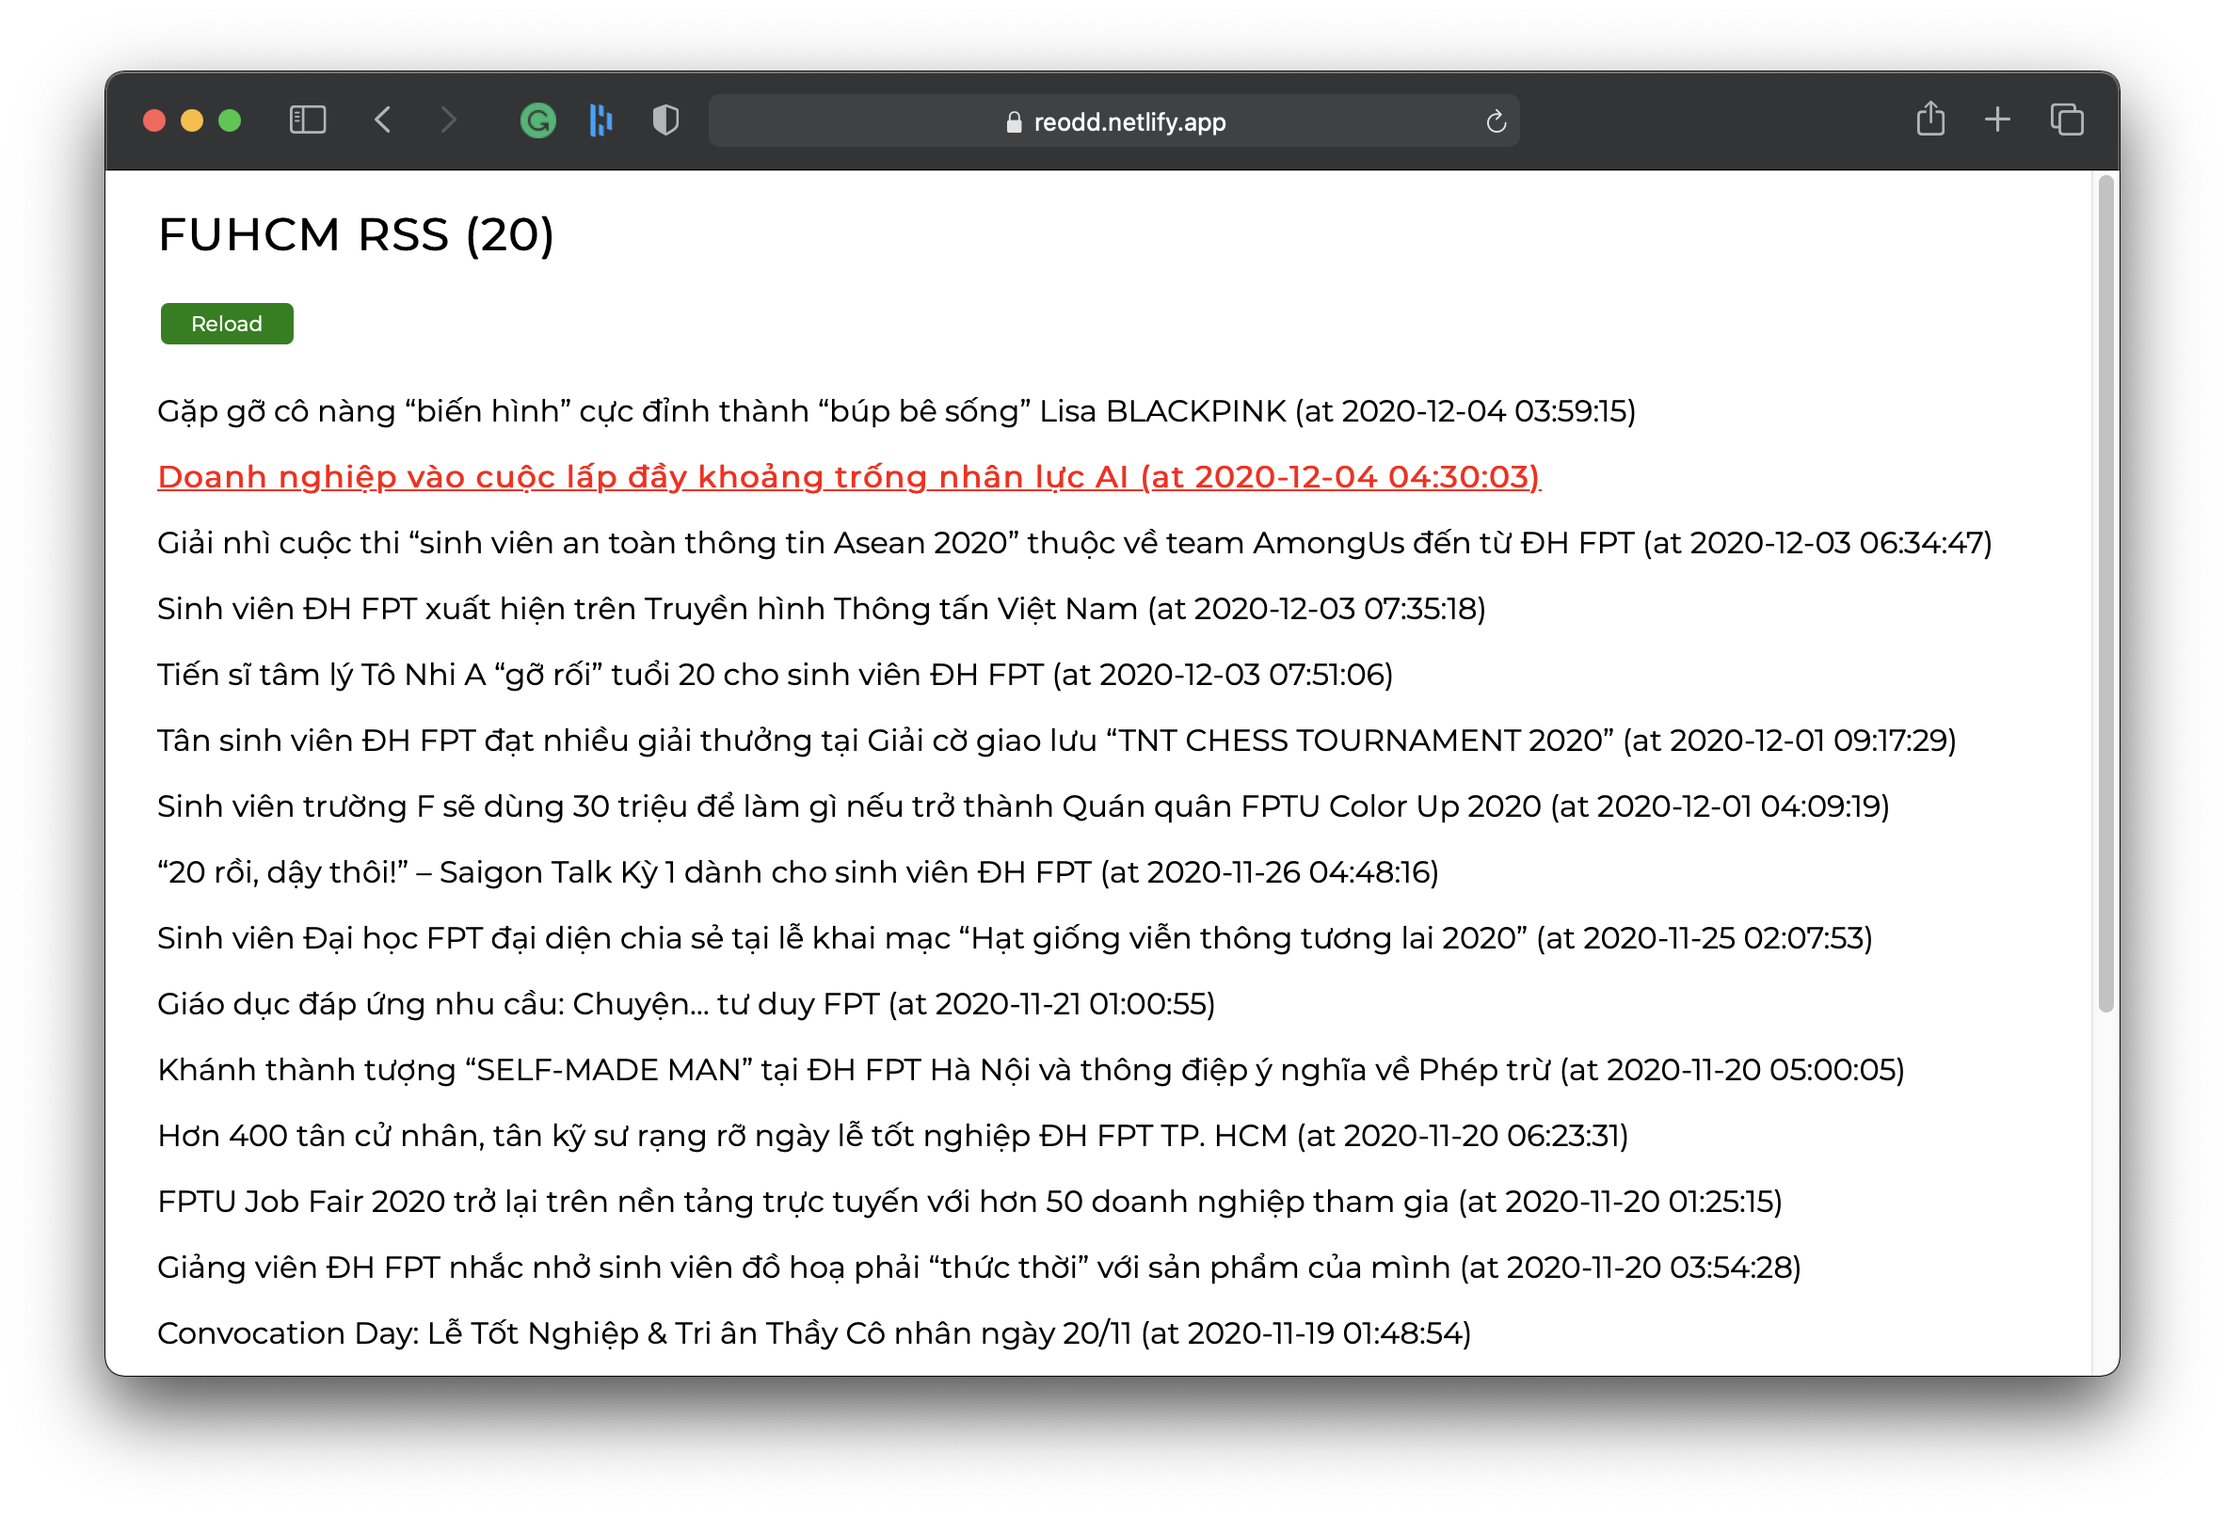
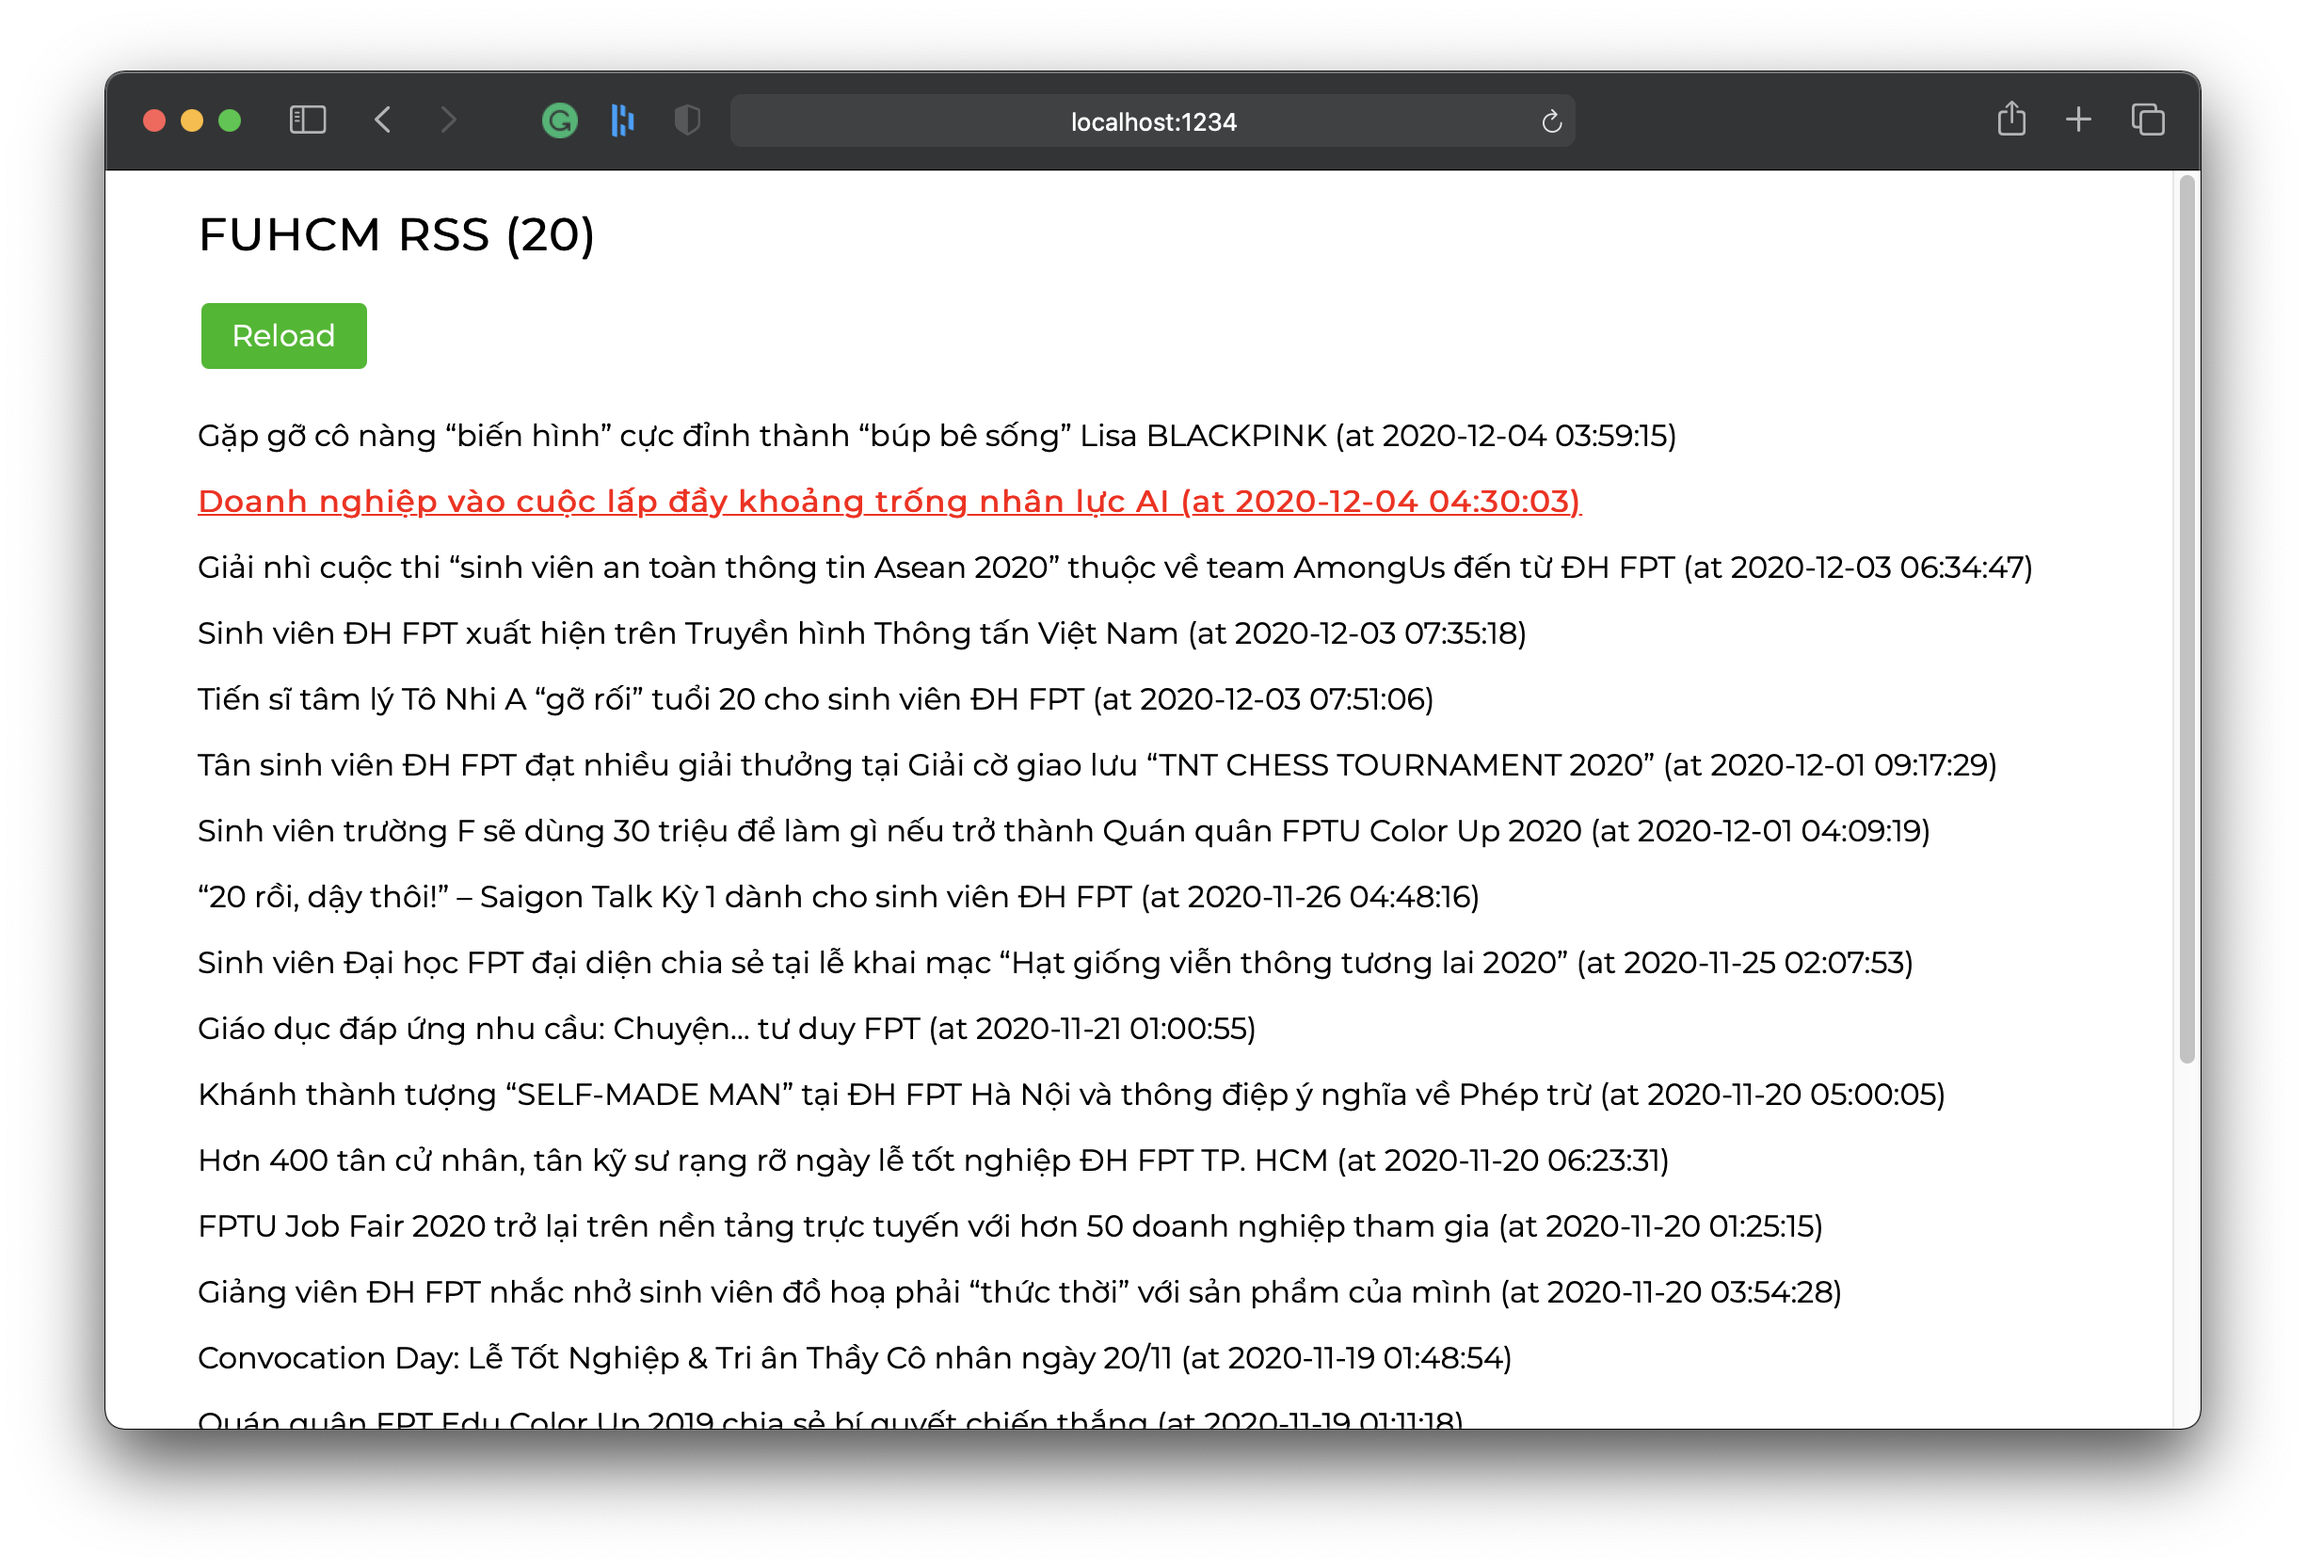
update demo:

Changed region(s): [[0.0309, 0.0311, 0.9573, 0.9317]]

diff --git a/example/components/Index.js b/example/components/Index.js
@@ -1,5 +1,8 @@
 import { OddxReactive as ReOdd } from '@oddx/reactive'
 import { getAllArticles } from '../services/fuhcm'
+import sleep from '../utils/sleep'
+
+import Loading from './Loading'
 
 const state = ReOdd.useState({
   limit: 20,
@@ -9,6 +12,7 @@ const state = ReOdd.useState({
 
 async function loadData() {
   state.isLoading = true
+  await sleep(1000)
   state.data = await getAllArticles(state.limit)
   state.isLoading = false
   document.title = 'ReOdd Demo Homepage'
@@ -19,6 +23,20 @@ async function loadMore() {
   await loadData()
 }
 
+function List(data) {
+  const listRender = data.map(i => {
+    const id = i.guid.replace('https://daihoc.fpt.edu.vn/?p=', '')
+    return `
+        <a href="#/posts/${id}"><li>${i.title} (at ${i.pubDate})</li></a>
+    `
+  }).join('')
+  return `
+    <ul>
+    ${listRender}
+    </ul>
+  `
+}
+
 function Index() {
   ReOdd.useEffect(loadData)
   ReOdd.useEffect(() => {
@@ -26,21 +44,13 @@ function Index() {
     ReOdd.on('load-more').click(loadMore)
   })
 
-  const list = state.data.map(i => {
-    const id = i.guid.replace('https://daihoc.fpt.edu.vn/?p=', '')
-    return `
-        <a href="#/posts/${id}"><li>${i.title} (at ${i.pubDate})</li></a>
-    `
-  }).join('')
-
   return `
+    ${Loading(state.isLoading)}
     <h2>FUHCM RSS (${state.limit})</h2>
     <button id="reload">Reload</button> ${(state.isLoading) ? "Loading..." : ""}
-    <ul>
-        ${list}
-    </ul>
+    ${List(state.data)}
     <div>
-        <button id="load-more" ${state.isLoading ? 'hidden' : ''}>Load more...</button> ${(state.isLoading) ? "Loading..." : ""}
+      <button id="load-more">Load more...</button> ${(state.isLoading) ? "Loading..." : ""}
     </div>
   `
 }

diff --git a/example/components/Post.js b/example/components/Post.js
@@ -1,5 +1,8 @@
 import { OddxReactive as ReOdd } from '@oddx/reactive'
 import { getArticle } from '../services/fuhcm'
+import sleep from '../utils/sleep'
+
+import Loading from './Loading'
 
 const state = ReOdd.useState({
   data: null,
@@ -9,6 +12,7 @@ const state = ReOdd.useState({
 async function loadData() {
   const id = ReOdd.router.param('id')
   state.data = null
+  await sleep(1000)
   state.isLoading = true
   state.data = await getArticle(id)
   state.isLoading = false
@@ -29,6 +33,7 @@ function Post() {
   }
 
   return `
+    ${Loading(true)}
     <a href="#"><button>Back to home</button></a>
     <h2>Loading...</h2>
   `

diff --git a/example/loading.scss b/example/loading.scss
@@ -1,0 +1,30 @@
+@keyframes rotate {
+  from {
+    transform: rotate(360deg) scaleX(-1);
+  }
+
+  to {
+    transform: rotate(0deg) scaleX(-1);
+  }
+}
+
+.loading-overlay {
+  position: fixed;
+  top: 0;
+  right: 0;
+  bottom: 0;
+  left: 0;
+  z-index: 2;
+  display: flex;
+  align-items: center;
+  justify-content: center;
+  background: rgba(0, 0, 0, 0.5);
+
+  &::before {
+    background: url('https://static.line-scdn.net/line_cs_sp/174581ba6de/my-inquiry-spa/assets/loading.png') center / contain no-repeat;
+    content: '';
+    width: 100px;
+    height: 100px;
+    animation: rotate 1s linear infinite;
+  }
+}

diff --git a/example/index.html b/example/index.html
@@ -5,7 +5,8 @@
         <meta charset="utf-8">
         <meta name="viewport" content="width=device-width, initial-scale=1, shrink-to-fit=no, maximum-scale=1, minimum-scale=1, user-scalable=0" />
         <link href='https://fonts.googleapis.com/css?family=Montserrat' rel='stylesheet'>
-        <link href='./index.css' rel='stylesheet'>
+        <link href='./index.scss' rel='stylesheet'>
+        <link href='./loading.scss' rel='stylesheet'>
     </head>
     <body>
         <div id="app" style="max-width: 1000px; margin: auto;"></div>

diff --git a/example/components/Loading.js b/example/components/Loading.js
@@ -1,0 +1,13 @@
+import { OddxReactive as ReOdd } from '@oddx/reactive'
+
+const trackLoad = () => console.log('It gonna load again, hah!')
+
+function Loading(isLoading) {
+  ReOdd.useEffect(trackLoad)
+
+  return isLoading ? `
+    <div class="loading-overlay"></div>
+  ` : ``
+}
+
+export default Loading

diff --git a/example/index.scss b/example/index.scss
@@ -14,9 +14,10 @@ a:hover {
 }
 
 button {
-    background: green;
+    background-color: #03BA00;
     color: white;
-    padding: 0.25rem 1rem;
+    font-size: 1rem;
+    padding: 0.5rem 1rem;
     border: 0;
     border-radius: 0.25rem;
     cursor: pointer;

diff --git a/example/utils/sleep.js b/example/utils/sleep.js
@@ -1,0 +1,3 @@
+const sleep = ms => new Promise(resolve => setTimeout(resolve, ms))
+
+export default sleep

diff --git a/README.md b/README.md
@@ -1,17 +1,15 @@
 # Reactive UI library
 
-Lightweight (~1 KB gzipped runtime) [React](https://github.com/facebook/react)-like API naive Reactive UI library 
-written 
-in TypeScript
+Lightweight (~1 KB gzipped runtime) Reactive UI library written in TypeScript
 
 ## Features
 
 - [React](https://github.com/facebook/react) API like with functional style
-- Two-way binding which uses [Reactive](https://vuejs.org/v2/guide/reactivity.html) instead of React's 
+- Two-way data binding which uses Vue's [Reactive](https://vuejs.org/v2/guide/reactivity.html) instead of React's 
   [Reconciliation](https://reactjs.org/docs/reconciliation.html)
-- No dependency, no JSX, no virtual DOM overhead
+- No dependency, no JSX, no need to transpile, no virtual DOM overhead
 - Tiny size, just 335 Bytes minified and gzipped runtime size
-- Embeddable and perfectly suitable for tiny-size single page applications
+- Embeddable and perfectly suitable for small-and-tiny-sized single page applications
 - TypeScript with static types
 
 ## Install
@@ -41,7 +39,9 @@ reodd.OddxReactive.render('#app', HelloWorld)
 
 ## Usage
 
-Basic Render:
+### Basic Render:
+
+The React-like APIs are easy to understand and work with (especially if you're coming from an React.js background)
 
 ```javascript
 import ReOdd from '@oddx/reactive'
@@ -55,7 +55,9 @@ function HelloWorld() {
 ReOdd.render('#app', HelloWorld)
 ```
 
-Reactive State:
+ReOdd can also be run directly in the browser with no build tool (via UMD import), just take your idea and turn it into reality in no ime!
+
+### Reactive State:
 
 ```javascript
 import ReOdd from '@oddx/reactive'
@@ -76,7 +78,20 @@ function Book() {
 ReOdd.render('#book', Book)
 ```
 
-Event Binding:
+You don't need to manually call `setState` because the state is already reactive!
+
+For example, you can write a load data function like this:
+
+```javascript
+async function loadData() {
+  const data = await getDataFromServer()
+  state.data = data
+}
+```
+
+Also, please don't forget to pass your loadData (which is a side-effect function) to the `.useEffect` function like in the above code.
+
+### Event Binding:
 
 (working on improvements)
 
@@ -96,7 +111,7 @@ function Data() {
 ReOdd.render('#data', Data)
 ```
 
-Router:
+### Router:
 
 ```javascript
 import ReOdd from '@oddx/reactive'
@@ -112,14 +127,18 @@ ReOdd.router.route('*', NotFound)
 ReOdd.router.render('#app')
 ```
 
-Component-based:
+### Component partial re-render:
+
+- This feature is use for middle-sized apps only, where partial re-render (which re-mounting based on component's DOM node) is performance matter.
+- For small and tiny apps, global re-mount on a single DOM node (usually `#app`) is acceptable to reduce the complexity (and thus the size) of runtime.
 
 (working on improvements)
 
 ```javascript
-function ComponentA() {
+function ParentComponent() {
+  // Manually bind the child component
   ReOdd.useEffect(() => {
-    ReOdd.render('child-component', ComponentB)
+    ReOdd.render('child-component', ChildComponent)
   })
   
   return `
@@ -128,14 +147,20 @@ function ComponentA() {
   `
 }
 
-function ComponentB() {
+function ChildComponent() {
   return `
     <div>This is child</div>
     <div>${state.data}</div>
   `
 }
+
+ReOdd.render('#app', ParentComponent)
 ```
 
 ## Example
 
-See [Example](https://github.com/oddx-team/reactive/tree/master/example).
+An example small single page application built by `@oddx/reactive`
+
+See [Example](https://github.com/oddx-team/reactive/tree/master/example)
+
+Live preview: [https://reodd.netlify.app](https://reodd.netlify.app/)
